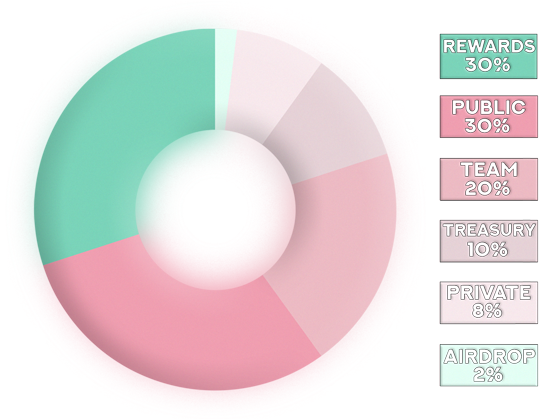
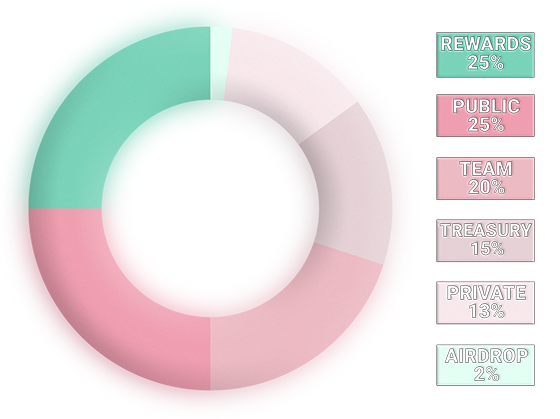
Update site contents (#3)
* installed cache manager on server

* updated tokenomics image

* style: Display landing cake image on mobile

* style: Cake image on game list page

diff --git a/src/views/FortCakeHome/index.tsx b/src/views/FortCakeHome/index.tsx
@@ -1,5 +1,5 @@
 import React from 'react'
-import { Text, Button, Flex, dark } from 'fortcake-uikit-v2'
+import { Text, Button, Flex, dark, useMatchBreakpoints } from 'fortcake-uikit-v2'
 import { Socials } from '../../components/Menu/config/config'
 import useTheme from '../../hooks/useTheme'
 import { PageMeta } from '../../components/Layout/Page'
@@ -40,6 +40,7 @@ const [Twitter, Discord, Instagram, Medium, BscScanHref, PancakeSwapHref, CoinGe
 
 const Home: React.FC = () => {
   const { isDark } = useTheme()
+  const { isMobile } = useMatchBreakpoints()
   const ParticipateSection = React.useRef<HTMLDivElement>(null)
   const scrollToParticipate = (): void => {
     ParticipateSection.current.scrollIntoView({
@@ -47,24 +48,34 @@ const Home: React.FC = () => {
     })
   }
 
+  const mobileHeaderStyle = isMobile
+    ? {
+        fontSize: '38px',
+        marginRight: '10px',
+      }
+    : {}
+
   return (
     <>
       <PageMeta />
       <Section className="landingSection">
         <SectionFlex className="grid">
           <PageHeader>
-            <Heading
-              as="h1"
-              scale="xxl"
-              mb="20px"
-              style={{
-                textShadow: isDark
-                  ? '3px -2px 1px rgb(25 159 125), -3px 3px 1px rgb(33 229 180)'
-                  : '#f1afc2 3px -2px 1px, #bb5768 -3px 3px 1px',
-              }}
-            >
-              THE FUTURE IS HERE
-            </Heading>
+            <Flex alignItems="center" mb={isMobile ? '40px' : '20px'} justifyContent="space-between">
+              <Heading
+                as="h1"
+                scale="xxl"
+                style={{
+                  ...mobileHeaderStyle,
+                  textShadow: isDark
+                    ? '3px -2px 1px rgb(25 159 125), -3px 3px 1px rgb(33 229 180)'
+                    : '#f1afc2 3px -2px 1px, #bb5768 -3px 3px 1px',
+                }}
+              >
+                THE FUTURE {isMobile && <br />} IS HERE
+              </Heading>
+              <LazyImage src={CakeImage} width={100} height={78} className="imgShowOnMobile" />
+            </Flex>
             <Heading as="h4" scale="md" override>
               FORTCAKE is a community driven crypto gaming platform built on the Binance Smart Chain. The goal is
               simple; introduce the world to PLAY-TO-EARN.

diff --git a/src/views/Games/Games.tsx b/src/views/Games/Games.tsx
@@ -111,27 +111,39 @@ const Games: React.FC = () => {
     setSortOption(option.value)
   }
 
+  const mobileHeaderStyle = isMobile
+    ? {
+        fontSize: '44px',
+        marginRight: '10px',
+      }
+    : {}
+
   return (
     <>
       <PageHeader background="transparent" mt={!isMobile && '5vh'}>
         <Flex justifyContent="space-between">
           <LandingText>
-            <Heading as="h2" scale="lg" color="secondary" mt="42px">
-              Welcome to
-            </Heading>
-            <Heading
-              as="h1"
-              scale="xxl"
-              color="secondary"
-              mb="16px"
-              style={{
-                textShadow: isDark
-                  ? '3px -2px 1px rgb(25 159 125), -3px 3px 1px rgb(33 229 180)'
-                  : '#f1afc2 3px -2px 1px, #bb5768 -3px 3px 1px',
-              }}
-            >
-              FORTCAKE
-            </Heading>
+            <Flex alignItems="center" justifyContent="space-between" mb={isMobile ? '30px' : '20px'}>
+              <div>
+                <Heading as="h2" scale="lg" color="secondary" mt="42px">
+                  Welcome to
+                </Heading>
+                <Heading
+                  as="h1"
+                  scale="xxl"
+                  color="secondary"
+                  style={{
+                    ...mobileHeaderStyle,
+                    textShadow: isDark
+                      ? '3px -2px 1px rgb(25 159 125), -3px 3px 1px rgb(33 229 180)'
+                      : '#f1afc2 3px -2px 1px, #bb5768 -3px 3px 1px',
+                  }}
+                >
+                  FORTCAKE
+                </Heading>
+              </div>
+              <StyledImage src={LogoCake} width={100} height={78} mt="60px" loading="lazy" className="showOnMobile" />
+            </Flex>
             <H2 as="h2" override>
               Find PLAY-TO-EARN games, Swap tokens, Earn rewards, Trade NFT`s and Join our community! Featuring our most
               upvoted crypto games all in one place...

diff --git a/src/state/games/hooks.tsx b/src/state/games/hooks.tsx
@@ -4,7 +4,7 @@ import axios from 'axios'
 import { State, Game } from '../types'
 import { GameProps } from '../../views/Games/components/types'
 
-const url = `https://api.airtable.com/v0/app15E3CJVgcqGz9s/site-content?api_key=${process.env.REACT_APP_A1RTABL3AP1K3Y}`
+const url = `https://api.fortcake.io/games`
 
 const deserializeGame = (game: Game) => {
   const { title, subtitle, logo, cta, symbol, votes } = game
@@ -51,12 +51,9 @@ export const useGames = () => {
     const controller = new AbortController()
     const fetchGamesData = async () => {
       try {
-        const {
-          data: { records },
-        } = await axios.get(url, {
+        const { data: allGames } = await axios.get(url, {
           signal: controller.signal,
         })
-        const allGames = records.map(({ fields }) => ({ ...fields, logo: fields.logo[0].url }))
         setAirTableGames(allGames)
         setIsLoading(false)
       } catch (e) {

diff --git a/src/views/FortCakeHome/styles.tsx b/src/views/FortCakeHome/styles.tsx
@@ -68,6 +68,11 @@ export const SectionFlex = styled(Flex)`
   .imgHideOnMobile {
     display: none;
   }
+  .imgShowOnMobile {
+    ${({ theme }) => theme.mediaQueries.md} {
+      display: none;
+    }
+  }
   &.address {
     min-height: 21vh;
     align-items: flex-end;
@@ -205,6 +210,6 @@ export const SocialLink = styled(Link)`
   }
 `
 
-export const LazyImage: React.FC<ImageProps> = ({ height, width, src, className }, props) => (
+export const LazyImage: React.FC<ImageProps> = (props, { height, width, src, className }) => (
   <Image loading="lazy" height={height} width={width} src={src} className={className} {...props} />
 )

diff --git a/src/views/Games/styles.tsx b/src/views/Games/styles.tsx
@@ -50,6 +50,12 @@ export const FilterContainer = styled.div`
 
 export const StyledImage = styled(Image)`
   display: none;
+  &.showOnMobile {
+    display: flex;
+    ${({ theme }) => theme.mediaQueries.md} {
+      display: none;
+    }
+  }
   ${({ theme }) => theme.mediaQueries.md} {
     display: block;
   }
